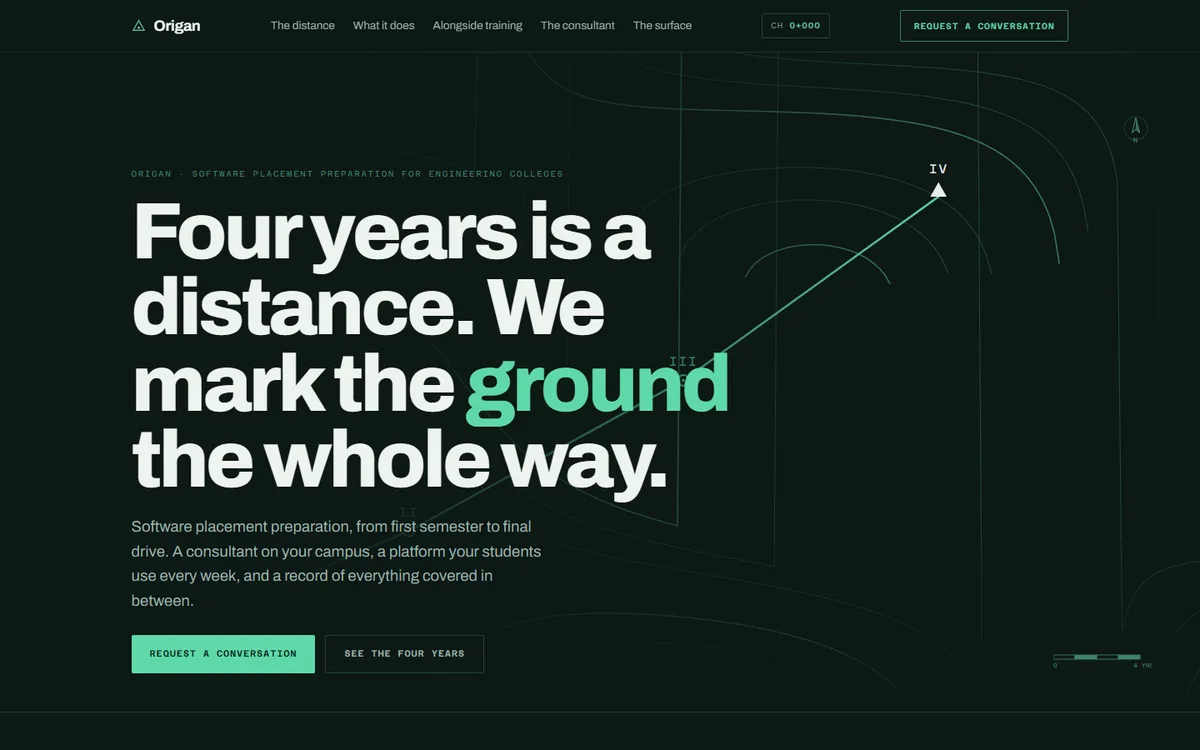
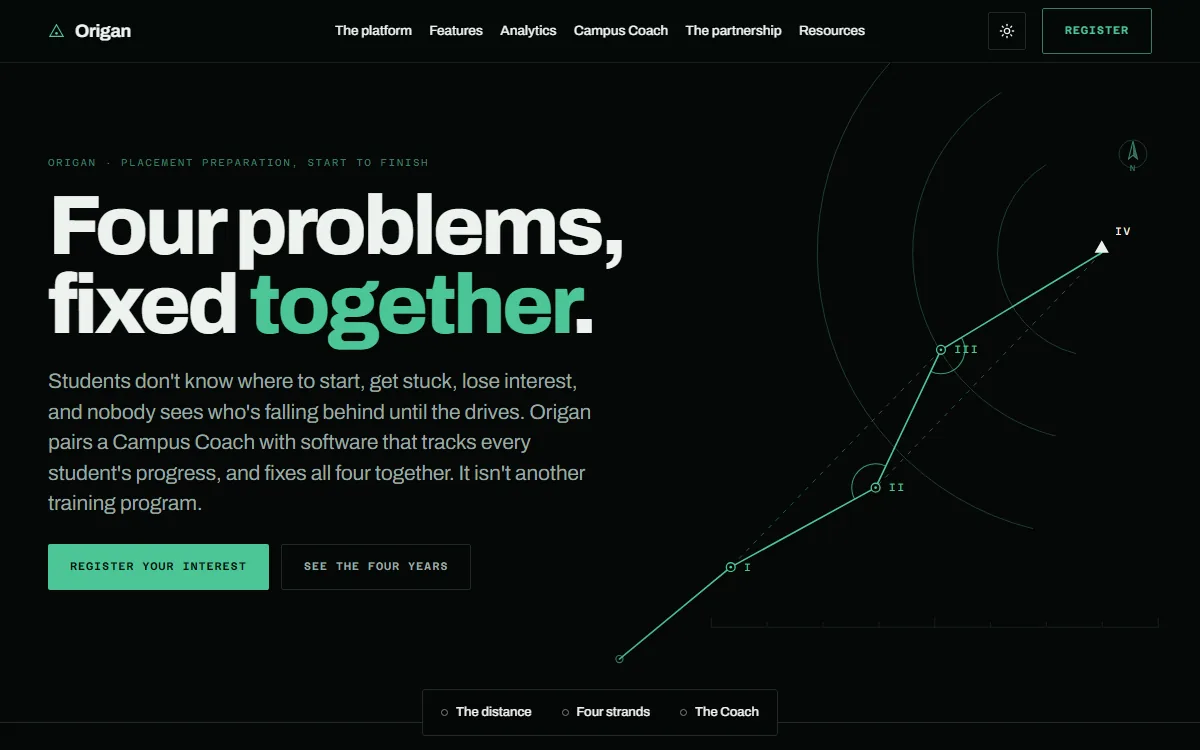
content: match the Origan card to the new site lead

diff --git a/src/content/studio.ts b/src/content/studio.ts
@@ -24,11 +24,11 @@ export const studio = {
       slug: 'origan',
       name: 'Origan',
       kind: 'Campus partnership · Placement preparation',
-      pitch: 'Four years is a distance. We mark the ground the whole way.',
-      body: 'Software placement preparation for engineering colleges, from first semester to final drive: a consultant on campus, a platform students use every week, and a record of everything covered in between.',
+      pitch: 'Four problems, fixed together.',
+      body: "Placement preparation for engineering colleges, from first semester to final drive. A Campus Coach paired with software that tracks every student's progress, so nobody falls behind unseen until the drives.",
       stack: ['Next.js', 'TypeScript', 'Tailwind CSS'],
       links: [{ label: 'Website', href: 'https://origan.verastack.dev' }],
-      image: { src: '/studio/origan.webp', alt: "The Origan landing page: four years is a distance, over a surveyor's contour map" },
+      image: { src: '/studio/origan.webp', alt: 'The Origan landing page: four problems, fixed together, beside a surveyed route through four years' },
     },
     {
       slug: 'rigseed',

diff --git a/src/content/services.ts b/src/content/services.ts
@@ -54,7 +54,7 @@ export const services = {
       name: 'Coaching & counselling',
       blurb:
         'One-to-one sessions for developers and students: getting better at building, reaching out to the right people, and focused prep for interviews and placements.',
-      proof: [{ text: 'Founder of Origan, a four-year prep programme for colleges' }],
+      proof: [{ text: 'Founder of Origan, placement preparation for colleges, start to finish' }],
       offer: {
         line: 'Free 15-minute sessions',
         cta: { label: 'Book 15 minutes', href: site.coachingCall },

diff --git a/docs/STATUS.md b/docs/STATUS.md
@@ -83,6 +83,7 @@ The redesign is live: home page, two published case studies, SEO and AEO groundw
 | #72 | Writing paginates four to a page (all rows stay in the markup); "All the studio's films on verastack.dev" link under the Films row (verastack.dev/films/) |
 | #73 | Services match verastack.dev's new grouping (design, build, market): "Web & 3D experiences" (never bare "3D"), order websites, web & 3D experiences, web apps, apps, AI search, product videos |
 | #74 | Writing: "What ChatGPT sees when it reads your homepage" (guide, 23 Oct) added at the top |
+| #75 | Origan studio card matches the new site lead: "Four problems, fixed together.", Campus Coach plus progress-tracking software, fresh landing capture; coaching proof line no longer says "programme" |
 
 ## Names used in this project
 
